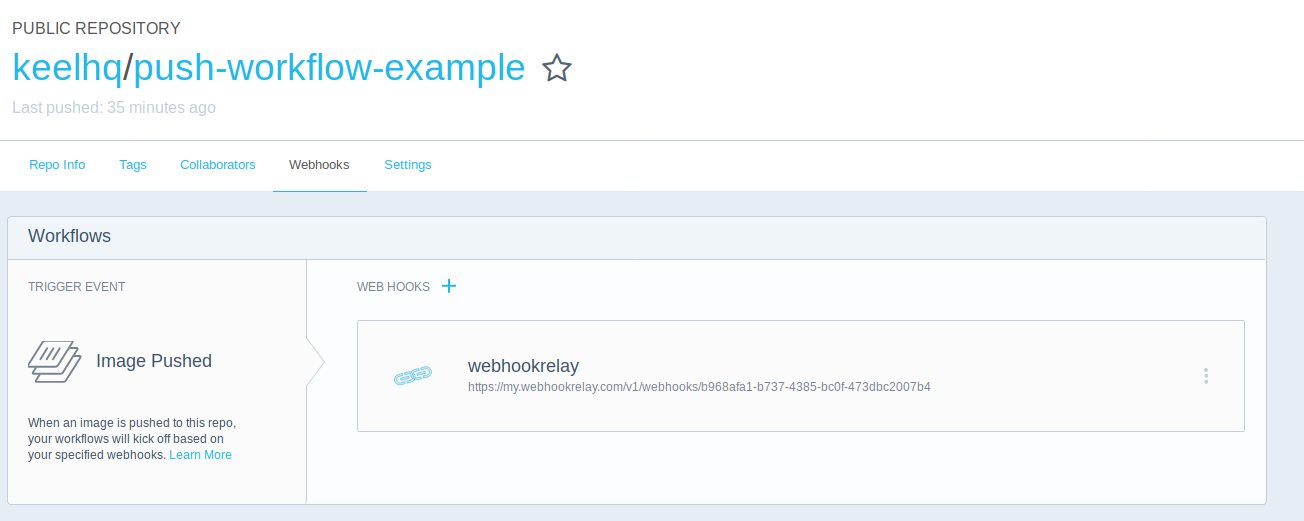
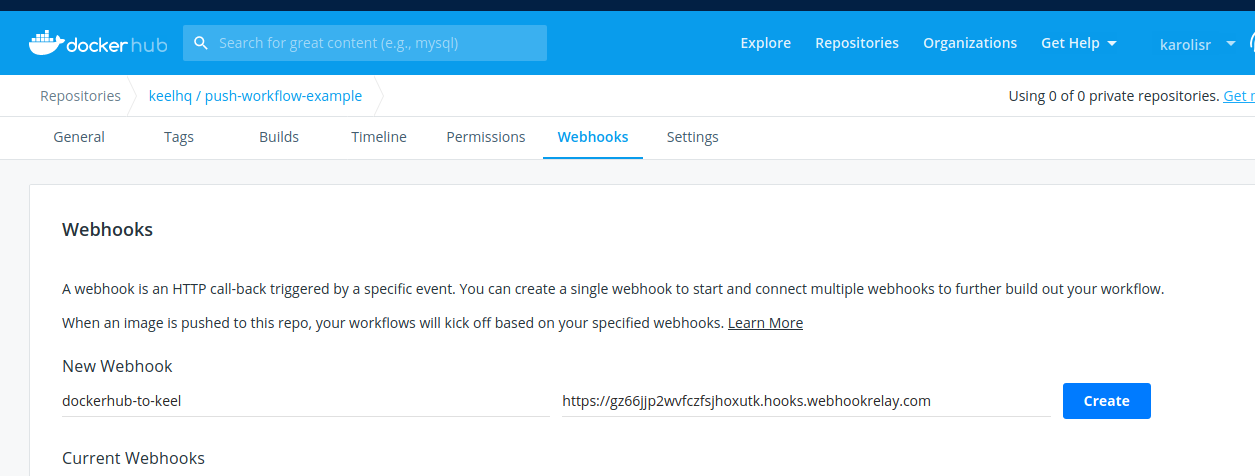
updating examples to use helm

diff --git a/examples/README.md b/examples/README.md
@@ -24,9 +24,10 @@ Once a workflow is ready, any push to the master branch (or merge requests from 
 In this tutorial we will use:
 
 * [Minikube](https://github.com/kubernetes/minikube#what-is-minikube) - our local development Kubernetes environment. Mac users are free to use Docker for Mac with Kubernetes support, works fine!
-* GitHub - we will store our code here
+* [Helm](https://helm.sh/docs/intro/install/) - Kubernetes package manager
+* [GitHub](https://github.com/) - we will store our code here
 * DockerHub - our Docker images will be built and stored here
-* Webhook Relay - will relay public webhooks to our internal Kubernetes environment so we don't have to expose Keel to the public internet
+* [Webhook Relay](https://webhookrelay.com) - will relay public webhooks to our internal Kubernetes environment so we don't have to expose Keel to the public internet
 
 ### Set up GitHub repository
 
@@ -64,22 +65,103 @@ git commit -m "first"
 git push origin master
 ```
 
-### Configure Webhook Relay forwarding
+### Create Kubernetes namespace
 
-In this step we will configure Webhook Relay to forward DockerHub webhooks our internal Kubernetes environment. This is especially useful when developing on a local Kubernetes cluster as receiving webhooks from public services can be slightly more complicated.
-
-Let's prepare configuration:
+To keep things isolated, create a new Kubernetes namespace:
 
 ```bash
-# using localhost as a webhookrelayd agent will be running as a sidecar
-# webhookrelayd sidecar for keel comes with preconfigured bucket name 'dockerhub'
-$ relay forward -b dockerhub --no-agent http://localhost:9300/v1/webhooks/dockerhub
-Forwarding configuration created: 
-https://my.webhookrelay.com/v1/webhooks/b968afa1-b737-4385-bc0f-473dbc2007b4 -> http://localhost:9300
-In order to start receiving webhooks - start an agent: 'relay forward' 
+kubectl create namespace push-workflow
 ```
 
-We will need that long URL for our next step when configuring DockerHub webhooks.
+From here, we will use namespace called 'push-workflow'. You can choose any other name, just update following commands to target your namespace.
+
+It's also handy to set this namespace as your current context:
+
+```bash
+kubectl config set-context $(kubectl config current-context) --namespace=push-workflow
+```
+
+### Enable Webhook Relay forwarding
+
+Webhook Relay operator will create a public endpoint and destination where to forward webhooks. Let's install it:
+
+```bash
+helm repo add webhookrelay https://charts.webhookrelay.com
+helm repo update
+```
+
+Get access token from [here](https://my.webhookrelay.com/tokens). Once you click on 'Create Token', it will generate it and show a helper to set environment variables:
+
+```
+export RELAY_KEY=*****-****-****-****-*********
+export RELAY_SECRET=**********
+```
+
+Install through Helm:
+
+```bash
+helm upgrade --install webhookrelay-operator --namespace=push-workflow webhookrelay/webhookrelay-operator \
+  --set credentials.key=$RELAY_KEY --set credentials.secret=$RELAY_SECRET
+```
+
+To view installed application:
+
+```bash
+helm list
+NAME                 	NAMESPACE    	REVISION	UPDATED                                	STATUS  	CHART                      	APP VERSION
+webhookrelay-operator	push-workflow	1       	2020-06-21 15:39:32.978269521 +0100 BST	deployed	webhookrelay-operator-0.1.3	1.16.0     
+```
+
+Once operator is deployed, you can create a simple CR (Custom Resource, located in the **push-workflow-example** repository) that will let you receive and forward webhooks:
+
+```yaml
+# webhookrelay_cr.yaml
+apiVersion: forward.webhookrelay.com/v1
+kind: WebhookRelayForward
+metadata:
+  name: keel-forward
+spec:
+  buckets:
+  - name: dockerhub-to-keel
+    inputs:
+    - name: dockerhub-endpoint
+      description: "Public endpoint"
+      responseBody: "OK"
+      responseStatusCode: 200
+    outputs:
+    - name: keel
+      destination: http://keel:9300/v1/webhooks/dockerhub
+
+```
+
+```bash
+kubectl apply -f webhookrelay_cr.yaml
+```
+
+You should see two pods running now:
+
+```bash
+$ kubectl get pods
+NAME                                           READY   STATUS    RESTARTS   AGE
+keel-forward-whr-deployment-869c4d4c86-txptt   1/1     Running   0          17s
+webhookrelay-operator-74984df6d8-l475z         1/1     Running   0          9m31s
+```
+
+If you use `kubectl describe` command on the created CRD, you should be able to see your public endpoint (you can also view it if you go to your [buckets page](https://my.webhookrelay.com/buckets)): 
+
+```bash
+$ kubectl describe webhookrelayforwards.forward.webhookrelay.com keel-forward
+...
+...
+Status:
+  Agent Status:  Running
+  Public Endpoints:
+    https://gz66jjp2wvfczfsjhoxutk.hooks.webhookrelay.com
+  Ready:           true
+  Routing Status:  Configured
+```
+
+Grab that ***.hooks.webhookrelay.com URL, we will need it in the next step.
 
 ### Configure DockerHub (code repository + webhook)
 
@@ -96,55 +178,23 @@ Ensure that `autobuild` is switched on and click on "Save and Build". You will g
 
 ![configure automated builds](/img/examples/docker-build-config.png)
 
-Also, we will need to setup DockerHub webhooks to Keel via Webhook Relay. For some reason, that configuration is not available on https://cloud.docker.com and we have to go to https://hub.docker.com:
+Also, we will need to setup DockerHub webhooks to Keel via Webhook Relay. To configure webhooks, go to https://hub.docker.com:
 
 ![dockerhub webhooks](/img/examples/dockerhub-webhook.png)
 
-### Deploy Keel and your app
-
-First, we need to deploy Keel with Webhook Relay sidecar. This is a one-off thing after which when you add more applications to your Kubernetes environment you don't need to repeat this step.
-
-### Credentials for webhookrelayd sidecar 
-
-Webhook Relay daemon will need authentication details to connect. We can use `relay` CLI to configure and insert secret into our Kubernetes environment: 
-
-```bash
-# we need to create a namespace first for the secret
-$ push-workflow-example git:(master) kubectl create namespace keel
-namespace "keel" created
-# by default Keel is deployed in namespace 'keel', therefore we need secret there
-$ push-workflow-example git:(master) relay ingress secret --name webhookrelay-credentials --namespace keel
-secret "webhookrelay-credentials" created
-```
+<!-- ### Deploy Keel and your app -->
 
 ### Deploying Keel
 
-now, if your cluster has RBAC enabled, use this template (if you are using Minikube then by default it should be enabled):
-
 ```bash
-kubectl create -f https://raw.githubusercontent.com/keel-hq/keel/master/deployment/deployment-rbac-whr-sidecar.yaml
+helm repo add keel https://charts.keel.sh
+helm repo update
 ```
 
-and if there's no RBAC in your cluster, use:
+And install it (we are disabling Keel's helm provider here as we are only going to work with Kubernetes manifests):
 
 ```bash
-kubectl create -f https://raw.githubusercontent.com/keel-hq/keel/master/deployment/deployment-norbac-whr-sidecar.yaml
-```
-
-> TIP: Feel free to save deployment manifest locally and add things like Slack or other chat provider notifications, approvals and so on. For the sake of simplicity we are omitting those steps in this tutorial.
-
-So, when we create it Kubernetes should complain a bit about already existing namespace but that's expected:
-
-```bash
-$ kubectl create -f https://raw.githubusercontent.com/keel-hq/keel/master/deployment/deployment-rbac-whr-sidecar.yaml
-serviceaccount "keel" created
-clusterrolebinding.rbac.authorization.k8s.io "keel-clusterrole-binding" created
-clusterrole.rbac.authorization.k8s.io "keel-clusterrole" created
-deployment.extensions "keel" created
-Error from server (AlreadyExists): error when creating "https://raw.githubusercontent.com/keel-hq/keel/master/deployment/deployment-rbac-whr-sidecar.yaml": namespaces "keel" already exists
-$ kubectl get pods -n keel
-NAME                   READY     STATUS    RESTARTS   AGE
-keel-f8b5959cc-jrgcd   2/2       Running   0          8s
+helm upgrade --install keel --namespace=push-workflow keel/keel --set helmProvider.enabled="false" --set service.enabled="true" --set service.type="ClusterIP"
 ```
 
 ### Deploy your app

diff --git a/docs/README.md b/docs/README.md
@@ -78,7 +78,7 @@ Prerequisites:
 You need to add this Chart repo to Helm:
 
 ```bash
-helm repo add keel-charts https://charts.keel.sh 
+helm repo add keel https://charts.keel.sh 
 helm repo update
 ```
 
@@ -87,7 +87,7 @@ Install through Helm (with Helm provider enabled by default):
 > Keel must be installed into the same namespace as Tiller, typically <code>kube-system</code>
 
 ```
-helm upgrade --install keel --namespace=kube-system keel-charts/keel
+helm upgrade --install keel --namespace=kube-system keel/keel
 ```
 
 If you work mostly with regular Kubernetes manifests, you can install Keel without Helm provider support:
